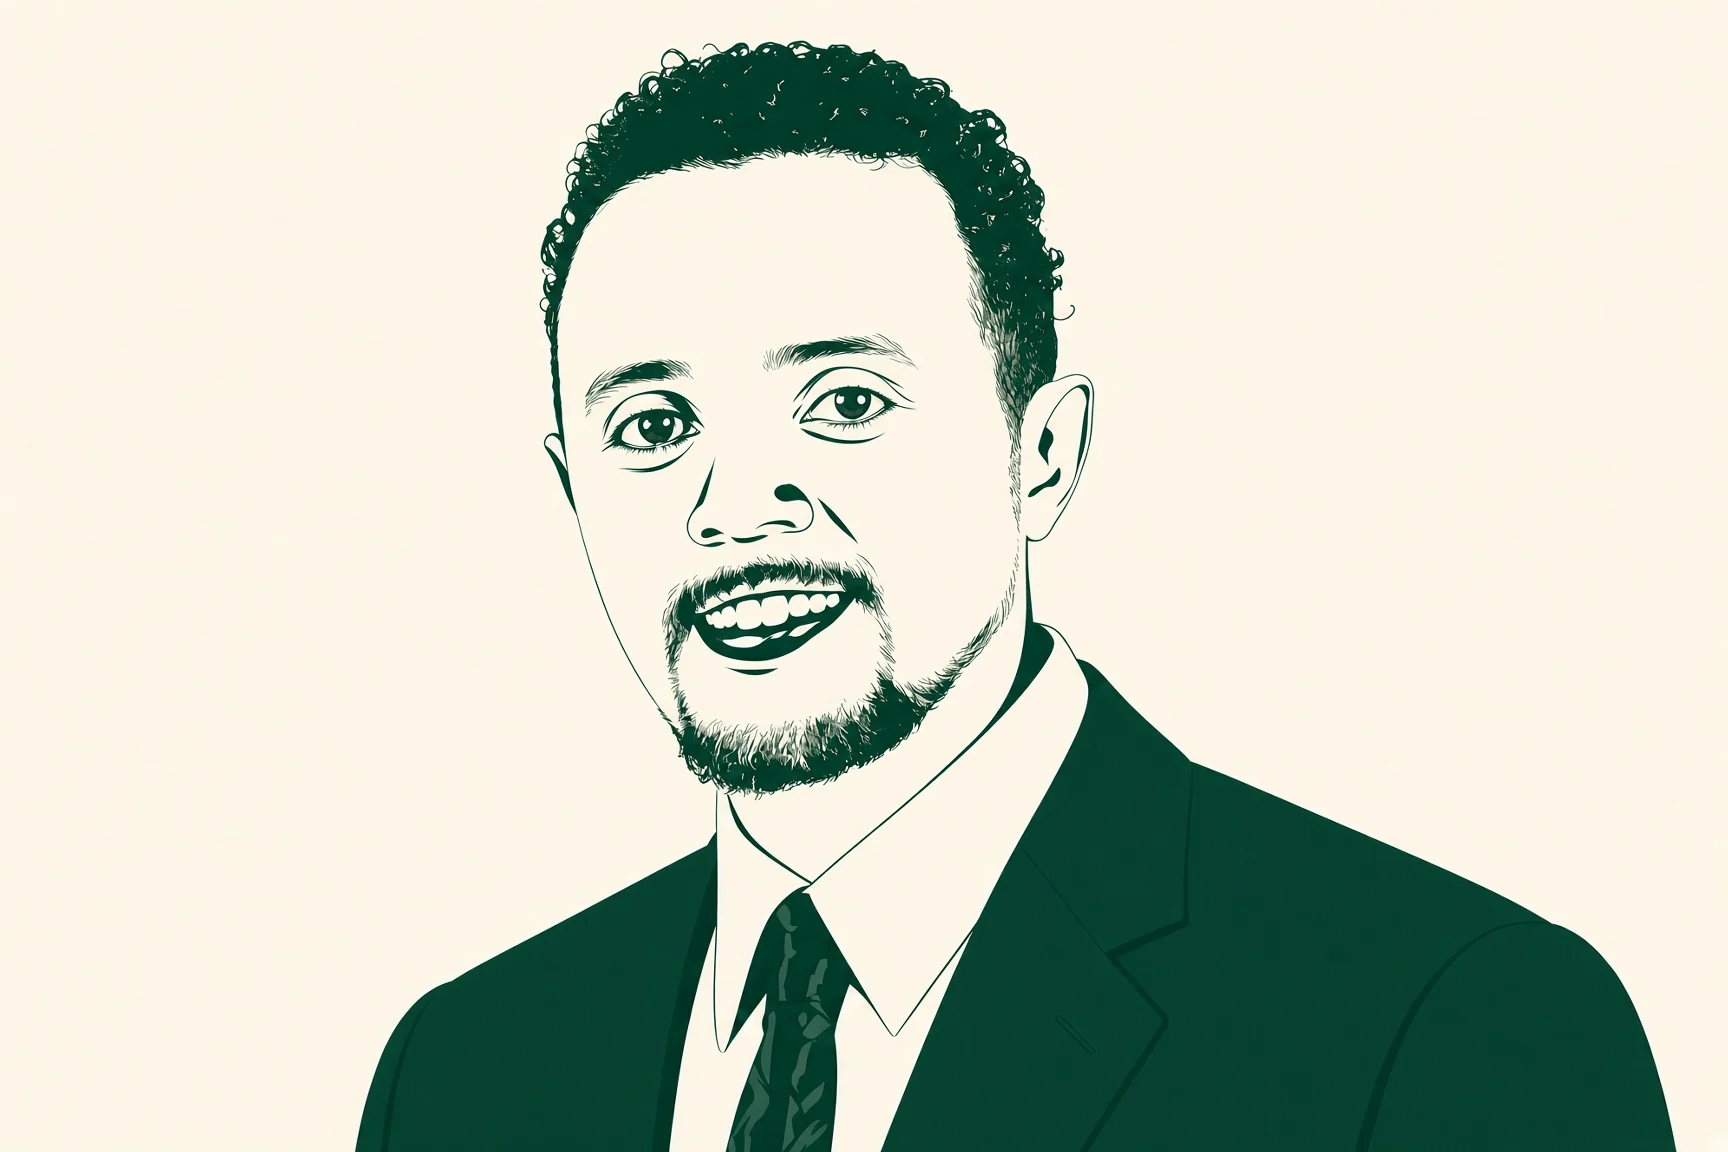
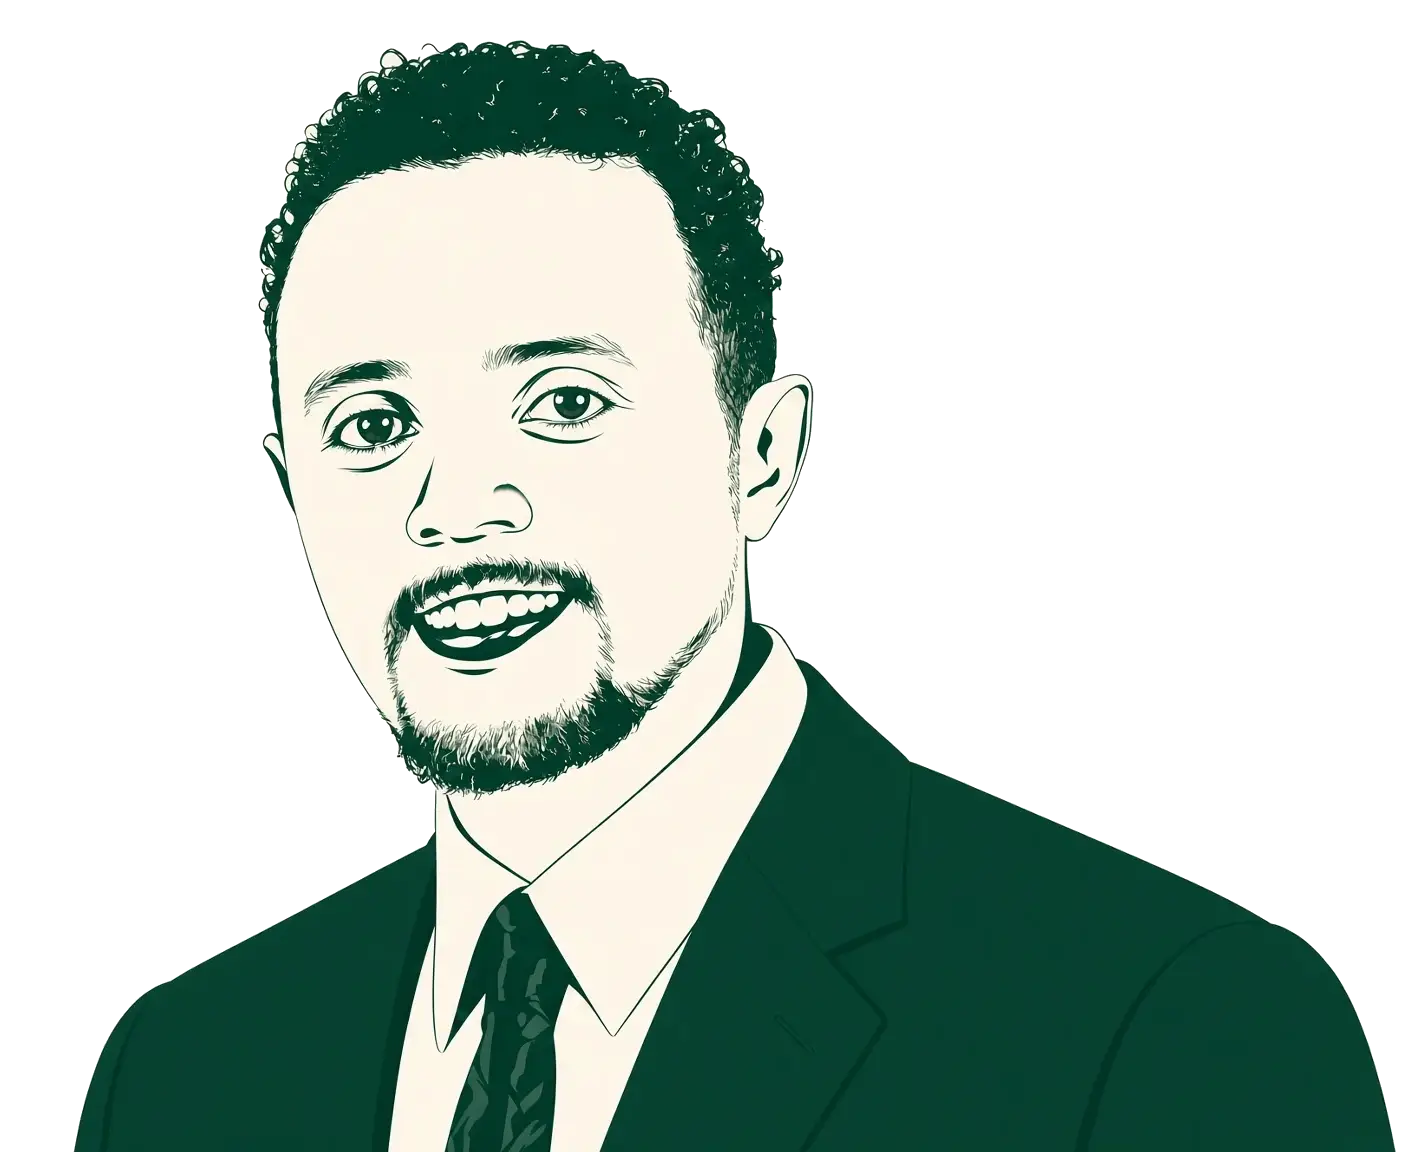
style update

diff --git a/index.html b/index.html
@@ -18,69 +18,114 @@
     <!-- Open Graph -->
     <meta property="og:type" content="website" />
     <meta property="og:site_name" content="Asmara Web Design" />
-    <meta property="og:title" content="Asmara Web Design — Websites and technical support" />
-    <meta property="og:description" content="We build websites, and we fix what breaks in them. Small-business sites, maintenance, and technical support from a Metro Atlanta studio." />
+    <meta
+      property="og:title"
+      content="Asmara Web Design — Websites and technical support"
+    />
+    <meta
+      property="og:description"
+      content="We build websites, and we fix what breaks in them. Small-business sites, maintenance, and technical support from a Metro Atlanta studio."
+    />
     <meta property="og:url" content="https://asmaraweb.netlify.app/" />
     <meta property="og:image" content="https://asmaraweb.netlify.app/og.jpg" />
     <meta property="og:image:width" content="1200" />
     <meta property="og:image:height" content="630" />
-    <meta property="og:image:alt" content="Asmara Web Design — We build websites, and we fix what breaks in them." />
+    <meta
+      property="og:image:alt"
+      content="Asmara Web Design — We build websites, and we fix what breaks in them."
+    />
     <!-- Twitter -->
     <meta name="twitter:card" content="summary_large_image" />
-    <meta name="twitter:title" content="Asmara Web Design — Websites and technical support" />
-    <meta name="twitter:description" content="We build websites, and we fix what breaks in them. Small-business sites, maintenance, and technical support from a Metro Atlanta studio." />
+    <meta
+      name="twitter:title"
+      content="Asmara Web Design — Websites and technical support"
+    />
+    <meta
+      name="twitter:description"
+      content="We build websites, and we fix what breaks in them. Small-business sites, maintenance, and technical support from a Metro Atlanta studio."
+    />
     <meta name="twitter:image" content="https://asmaraweb.netlify.app/og.jpg" />
     <!-- Structured data -->
     <script type="application/ld+json">
-    [
-      {
-        "@context": "https://schema.org",
-        "@type": "ProfessionalService",
-        "@id": "https://asmaraweb.netlify.app/#business",
-        "name": "Asmara Web Design",
-        "url": "https://asmaraweb.netlify.app/",
-        "image": "https://asmaraweb.netlify.app/og.jpg",
-        "areaServed": [
-          {"@type": "AdministrativeArea", "name": "Metro Atlanta, GA"},
-          {"@type": "Country", "name": "United States"}
-        ],
-        "address": {
-          "@type": "PostalAddress",
-          "addressLocality": "Atlanta",
-          "addressRegion": "GA",
-          "addressCountry": "US"
+      [
+        {
+          "@context": "https://schema.org",
+          "@type": "ProfessionalService",
+          "@id": "https://asmaraweb.netlify.app/#business",
+          "name": "Asmara Web Design",
+          "url": "https://asmaraweb.netlify.app/",
+          "image": "https://asmaraweb.netlify.app/og.jpg",
+          "areaServed": [
+            { "@type": "AdministrativeArea", "name": "Metro Atlanta, GA" },
+            { "@type": "Country", "name": "United States" }
+          ],
+          "address": {
+            "@type": "PostalAddress",
+            "addressLocality": "Atlanta",
+            "addressRegion": "GA",
+            "addressCountry": "US"
+          },
+          "hasOfferCatalog": {
+            "@type": "OfferCatalog",
+            "name": "Web Design Services",
+            "itemListElement": [
+              {
+                "@type": "Offer",
+                "itemOffered": {
+                  "@type": "Service",
+                  "name": "Websites for small businesses"
+                }
+              },
+              {
+                "@type": "Offer",
+                "itemOffered": {
+                  "@type": "Service",
+                  "name": "Website maintenance and fixes"
+                }
+              },
+              {
+                "@type": "Offer",
+                "itemOffered": {
+                  "@type": "Service",
+                  "name": "Technical support and troubleshooting"
+                }
+              },
+              {
+                "@type": "Offer",
+                "itemOffered": {
+                  "@type": "Service",
+                  "name": "Installable web apps"
+                }
+              },
+              {
+                "@type": "Offer",
+                "itemOffered": {
+                  "@type": "Service",
+                  "name": "Speed, accessibility and SEO cleanup"
+                }
+              }
+            ]
+          }
         },
-        "hasOfferCatalog": {
-          "@type": "OfferCatalog",
-          "name": "Web Design Services",
-          "itemListElement": [
-            {"@type": "Offer", "itemOffered": {"@type": "Service", "name": "Websites for small businesses"}},
-            {"@type": "Offer", "itemOffered": {"@type": "Service", "name": "Website maintenance and fixes"}},
-            {"@type": "Offer", "itemOffered": {"@type": "Service", "name": "Technical support and troubleshooting"}},
-            {"@type": "Offer", "itemOffered": {"@type": "Service", "name": "Installable web apps"}},
-            {"@type": "Offer", "itemOffered": {"@type": "Service", "name": "Speed, accessibility and SEO cleanup"}}
+        {
+          "@context": "https://schema.org",
+          "@type": "Person",
+          "name": "Henok T.",
+          "jobTitle": "Founding Owner",
+          "worksFor": { "@id": "https://asmaraweb.netlify.app/#business" },
+          "sameAs": [
+            "https://www.linkedin.com/in/henok-t/",
+            "https://github.com/Henok-T"
           ]
+        },
+        {
+          "@context": "https://schema.org",
+          "@type": "WebSite",
+          "name": "Asmara Web Design",
+          "url": "https://asmaraweb.netlify.app/",
+          "publisher": { "@id": "https://asmaraweb.netlify.app/#business" }
         }
-      },
-      {
-        "@context": "https://schema.org",
-        "@type": "Person",
-        "name": "Henok T.",
-        "jobTitle": "Founding Owner",
-        "worksFor": {"@id": "https://asmaraweb.netlify.app/#business"},
-        "sameAs": [
-          "https://www.linkedin.com/in/henok-t/",
-          "https://github.com/Henok-T"
-        ]
-      },
-      {
-        "@context": "https://schema.org",
-        "@type": "WebSite",
-        "name": "Asmara Web Design",
-        "url": "https://asmaraweb.netlify.app/",
-        "publisher": {"@id": "https://asmaraweb.netlify.app/#business"}
-      }
-    ]
+      ]
     </script>
   </head>
   <body>
@@ -764,7 +809,7 @@
               class="muted"
               style="margin-top: 1.2rem; font-weight: 600; font-size: 0.875rem"
             >
-              Henok T., Founding Owner
+              Henok, Founding Owner
             </p>
           </div>
         </div>

diff --git a/styles.css b/styles.css
@@ -8,7 +8,7 @@
   --wrap: 72rem;
 }
 * { box-sizing: border-box; }
-html { scroll-behavior: smooth; }
+html { scroll-behavior: smooth; scroll-padding-top: 4rem; }
 body { margin: 0; background: var(--bg); color: var(--ink); font-family: var(--sans); line-height: 1.55; }
 img { max-width: 100%; display: block; }
 a { color: inherit; }
